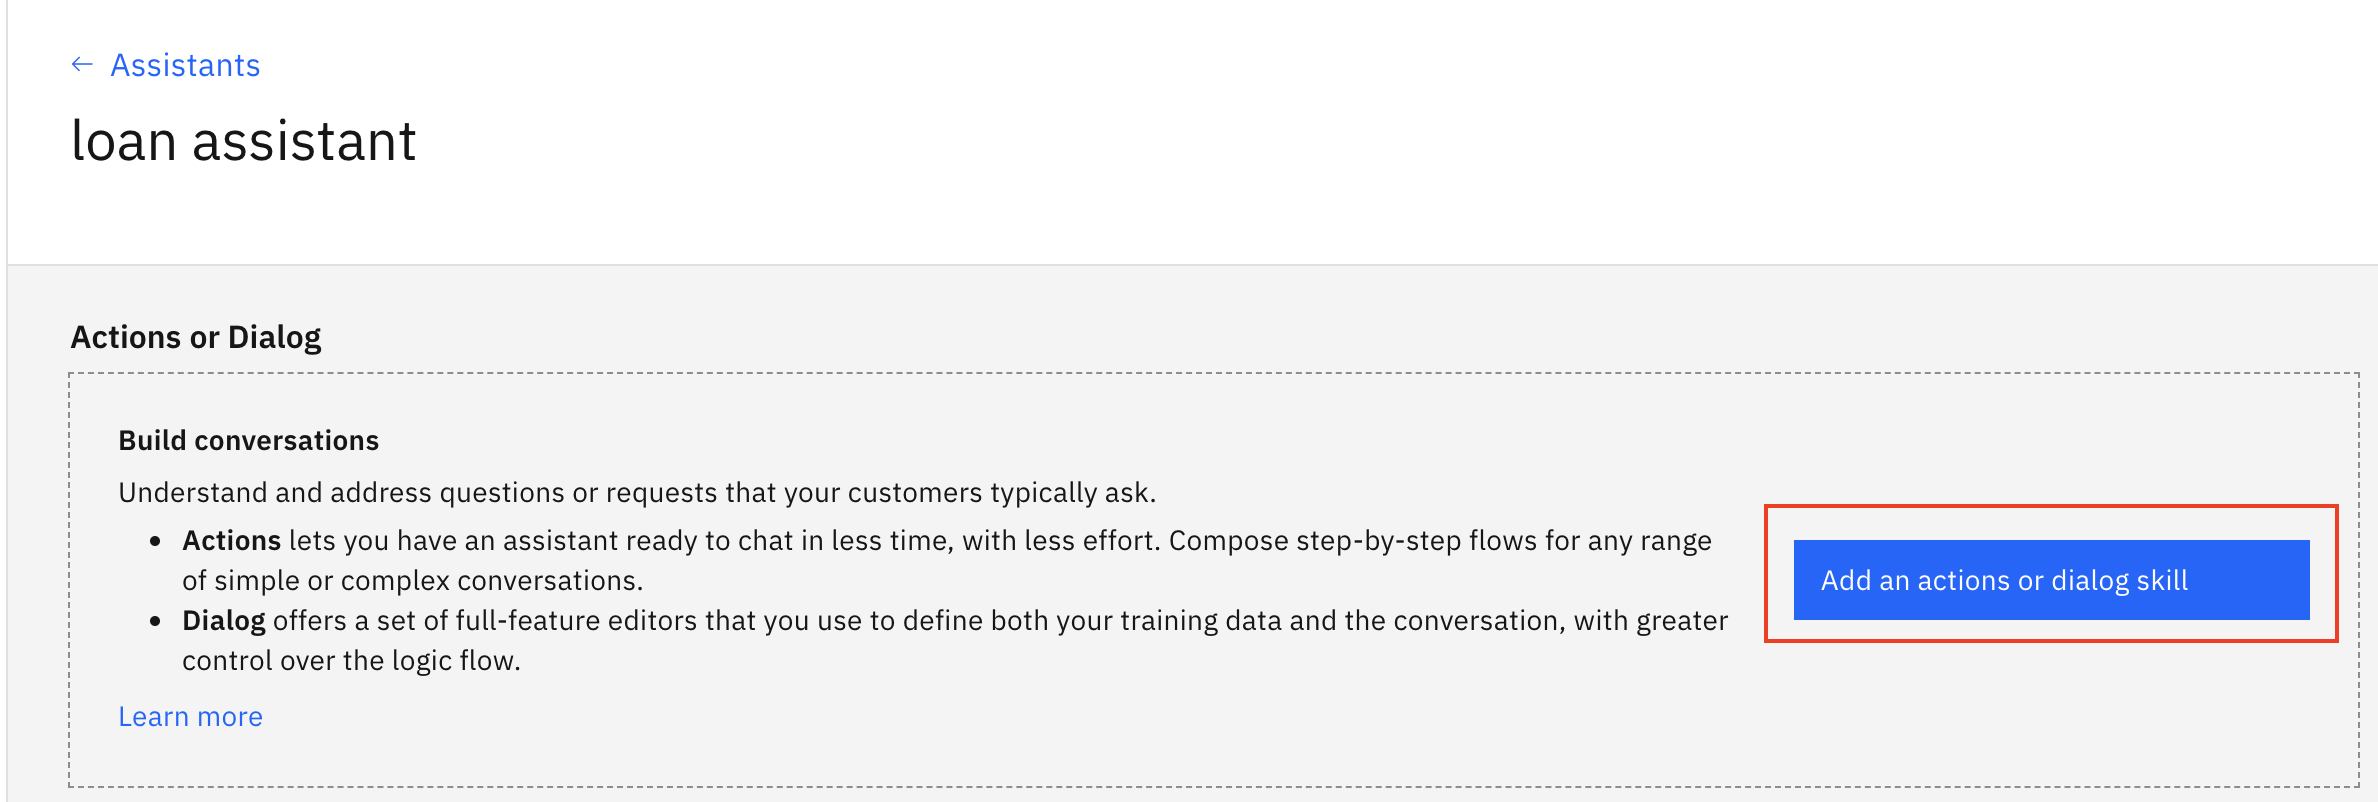
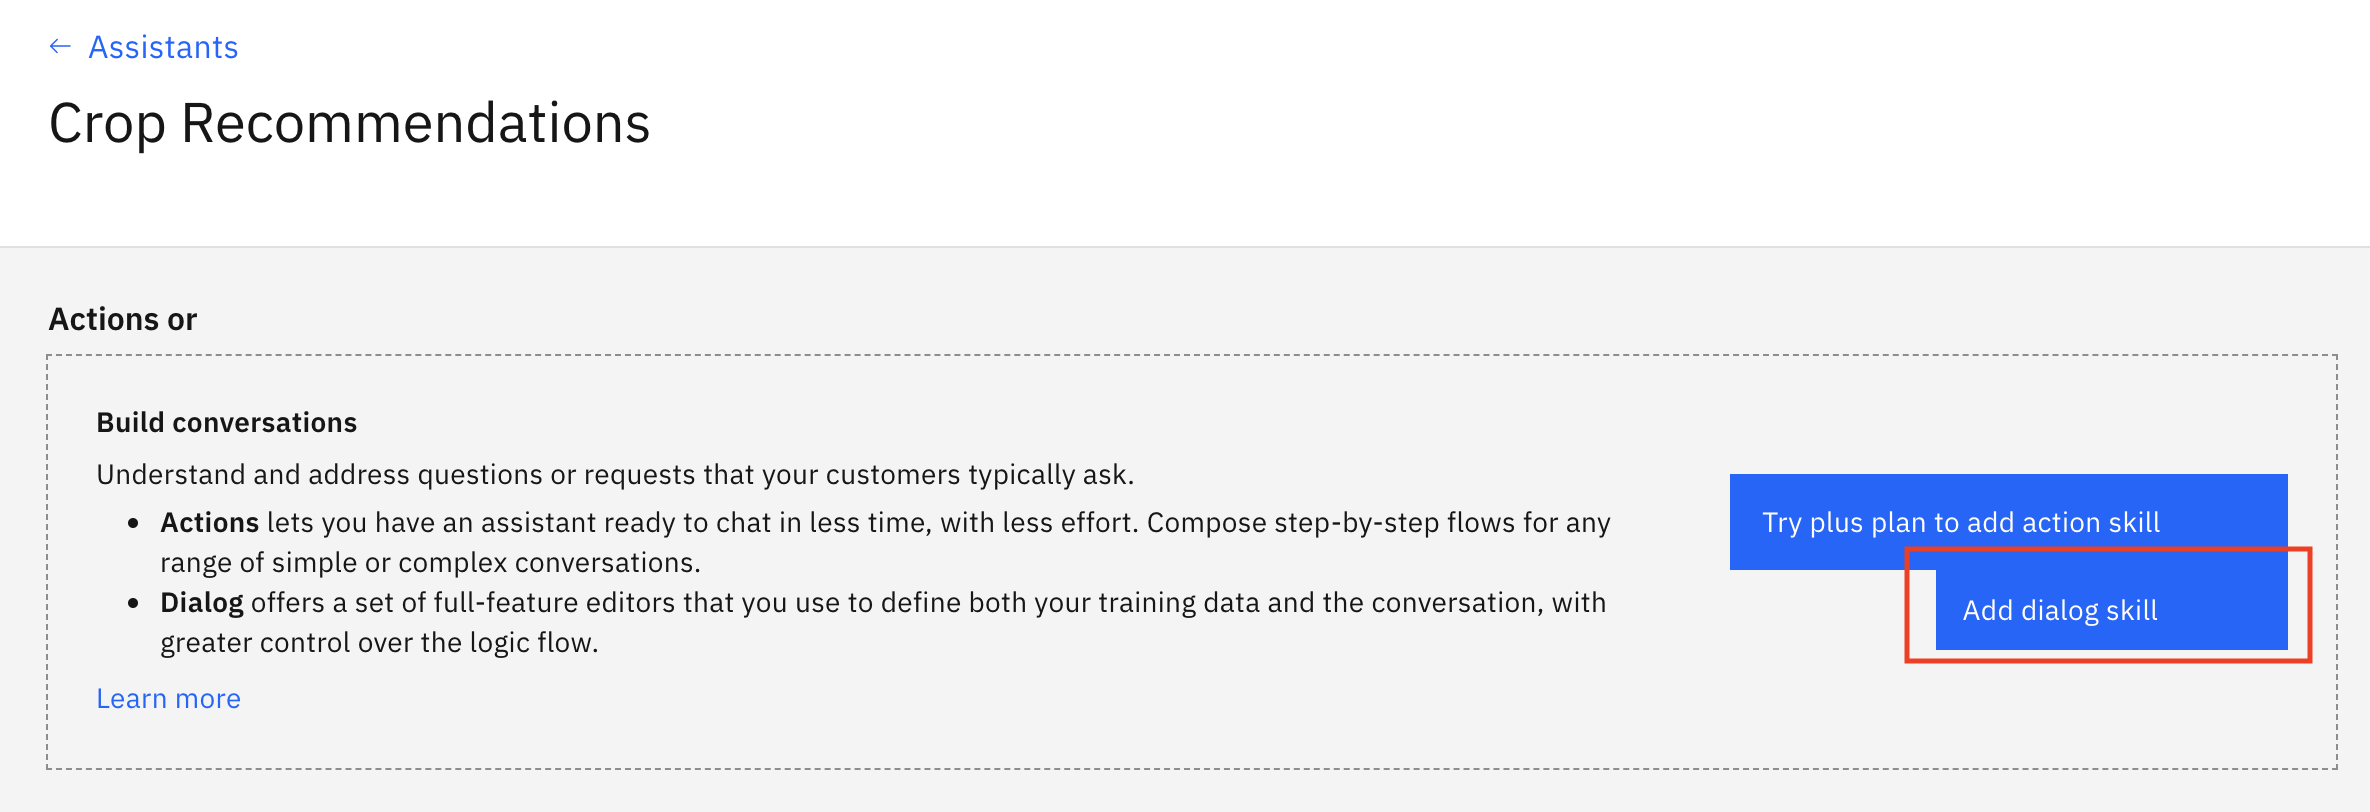
Changed assistant add skill image

diff --git a/didact/Readme-agro-smart-assistant.md b/didact/Readme-agro-smart-assistant.md
@@ -326,6 +326,7 @@
    <p style="font-size:24px">Pre-requisites</p>
     <div class="content-">
     <p>IBM Cloud Account -  Do not have an IBM Cloud Account?<a href="https://cloud.ibm.com/registration"> click here</a> to create one for free.</p>
+    <p>Login into your <a href="https://dataplatform.cloud.ibm.com/">CloudPak for Data</a> account, select region as "Dallas" and verify that the Dashboard is visible.</p>
     </div>
    </div>
     <div class="section">
@@ -336,33 +337,33 @@
    <div style="margin-top:0;"class="container right">
             <div class="content">
                 <p>To begin, open a pre-configured terminal.</p>
-                <a class="button is-dark is-medium" title="Open Terminal" href="didact://?commandId=terminal-for-nodejs-container:new">Open Terminal</a><br>
+                <a class="button is-dark is-medium" title="Open Terminal" href="didact://?commandId=terminal-for-sandbox-container:new">Open Terminal</a><br>
             </div>
         </div>
       <div class="container right">
          <div class="content">
             <p>Click `Get the code` to clone the code to your playground session as application's source code is needed.</p>
-            <a class="button is-dark is-medium" title="Get the Code" href="didact://?commandId=extension.sendToTerminal&text=nodejs%20terminal%7Cclone-repo%7Cnodejs%20terminal|git%20clone%20-b%20agro-chatbot%20https://github.com/IBM/Developer-Playground.git%20${CHE_PROJECTS_ROOT}/cp4d-smart-virtual-assistant">Get the Code</a>
+            <a class="button is-dark is-medium" title="Get the Code" href="didact://?commandId=extension.sendToTerminal&text=sandbox%20terminal%7Cclone-repo%7Csandbox%20terminal|git%20clone%20-b%20agro-chatbot%20https://github.com/IBM/Developer-Playground.git%20${CHE_PROJECTS_ROOT}/cp4d-smart-virtual-assistant">Get the Code</a>
          </div>
       </div>
       <div class="container right">
         <div class="content">
            <p>You've successfully cloned the code, so click `Build the application` to start the build process.
            </p>
-           <a class="button is-dark is-medium" title="Build the Application" href="didact://?commandId=extension.sendToTerminal&text=nodejs%20terminal%7Cbuild%7Cnodejs%20terminal|cd%20${CHE_PROJECTS_ROOT}/cp4d-smart-virtual-assistant%20%26%26%20npm%20install%26%26pip3.8%20install%20-r%20requirements.txt">Build the Application</a>
+           <a class="button is-dark is-medium" title="Build the Application" href="didact://?commandId=extension.sendToTerminal&text=sandbox%20terminal%7Cbuild%7Csandbox%20terminal|cd%20${CHE_PROJECTS_ROOT}/cp4d-smart-virtual-assistant%20%26%26%20npm%20install%26%26pip3.8%20install%20-r%20requirements.txt">Build the Application</a>
         </div>
      </div>
       <div class="container right">
         <div class="content">
           <p>Create and Configure IBM Services</p>
           <p>You need to be logged in to your IBM Cloud account in the Developer Playground to create and configure services.</p>
-          <a class="button is-dark is-medium" title="Login to IBM Cloud" href="didact://?commandId=extension.sendToTerminal&text=nodejs%20terminal%7Cibm-login%7Cnodejs%20terminal|cd%20${CHE_PROJECTS_ROOT}/cp4d-smart-virtual-assistant%20%26%26%20chmod%20%2Bx%20.%2Fscripts%2Flogin.sh%20%26%26%20.%2Fscripts%2Flogin.sh">Login to IBM Cloud</a>
+          <a class="button is-dark is-medium" title="Login to IBM Cloud" href="didact://?commandId=extension.sendToTerminal&text=sandbox%20terminal%7Cibm-login%7Csandbox%20terminal|cd%20${CHE_PROJECTS_ROOT}/cp4d-smart-virtual-assistant%20%26%26%20chmod%20%2Bx%20.%2Fscripts%2Flogin.sh%20%26%26%20.%2Fscripts%2Flogin.sh">Login to IBM Cloud</a>
         </div>
       </div>
       <div class="container right">
         <div class="content">
           <p>Create these services with just a click of button.</p>
-          <a class="button is-dark is-medium" title="Create IBM Watson Services" href="didact://?commandId=extension.sendToTerminal&text=nodejs%20terminal%7Ccreate-services%7Cnodejs%20terminal|cd%20${CHE_PROJECTS_ROOT}/cp4d-smart-virtual-assistant%20%26%26%20chmod%20%2Bx%20.%2Fscripts%2Fcreate-ibm-services.sh%20%26%26%20.%2Fscripts%2Fcreate-ibm-services.sh">Create IBM Watson Services</a>
+          <a class="button is-dark is-medium" title="Create IBM Watson Services" href="didact://?commandId=extension.sendToTerminal&text=sandbox%20terminal%7Ccreate-services%7Csandbox%20terminal|cd%20${CHE_PROJECTS_ROOT}/cp4d-smart-virtual-assistant%20%26%26%20chmod%20%2Bx%20.%2Fscripts%2Fcreate-ibm-services.sh%20%26%26%20.%2Fscripts%2Fcreate-ibm-services.sh">Create IBM Watson Services</a>
           <p style="margin-top:50px">Follow the below steps to configure the asset.</p>
         </div>
       </div>
@@ -372,11 +373,11 @@
          <summary>&nbsp;&nbsp;&nbsp;&nbsp;&nbsp;Create a New Deployment Space and Deploy the Model</summary></br></br>
          <div class="step">
           <p>Step 1 : Generate an API Key in the IBM account.</p>
-          <a class="button is-dark is-medium" title="Generate API key" href="didact://?commandId=extension.sendToTerminal&text=nodejs%20terminal%7Cgenerate-api-token%7Cnodejs%20terminal|cd%20${CHE_PROJECTS_ROOT}/cp4d-smart-virtual-assistant;ibmcloud%20iam%20api-key-create%20ApiKey-SVA%20-d%20'this is API key for Smart Virtual Assitant'%20--file%20${CHE_PROJECTS_ROOT}/cp4d-smart-virtual-assistant/key_file">Generate API key</a></br>
+          <a class="button is-dark is-medium" title="Generate API key" href="didact://?commandId=extension.sendToTerminal&text=sandbox%20terminal%7Cgenerate-api-token%7Csandbox%20terminal|cd%20${CHE_PROJECTS_ROOT}/cp4d-smart-virtual-assistant;ibmcloud%20iam%20api-key-create%20ApiKey-SVA%20-d%20'this is API key for Smart Virtual Assitant'%20--file%20${CHE_PROJECTS_ROOT}/cp4d-smart-virtual-assistant/key_file">Generate API key</a></br>
         </div>
           <div class="step">
             <p>Step 2 : Create a new deployment space with the pre-loaded model.</p>
-            <a class="button is-dark is-medium" href="didact://?commandId=extension.sendToTerminal&text=nodejs%20terminal%7Cstart%7Cnodejs%20terminal|cd%20${CHE_PROJECTS_ROOT}/cp4d-smart-virtual-assistant%20%26%26%20python3.8%20create_space.py">Create Deployment Space</a>
+            <a class="button is-dark is-medium" href="didact://?commandId=extension.sendToTerminal&text=sandbox%20terminal%7Cstart%7Csandbox%20terminal|cd%20${CHE_PROJECTS_ROOT}/cp4d-smart-virtual-assistant%20%26%26%20python3.8%20create_space.py">Create Deployment Space</a>
           <details style="margin-top:5px;">
          <summary>&nbsp;&nbsp;&nbsp;&nbsp;&nbsp;Incase your model import failed, do the following steps</summary></br></br>
           <div class="step">
@@ -414,11 +415,11 @@
            </div>
           <div class="step">
             <p>Step 3 : Deploy the model.</p>
-            <a class="button is-dark is-medium" href="didact://?commandId=extension.sendToTerminal&text=nodejs%20terminal%7Cstart%7Cnodejs%20terminal|cd%20${CHE_PROJECTS_ROOT}/cp4d-smart-virtual-assistant%20%26%26%20python3.8%20deploy_model.py">Deploy</a>
+            <a class="button is-dark is-medium" href="didact://?commandId=extension.sendToTerminal&text=sandbox%20terminal%7Cstart%7Csandbox%20terminal|cd%20${CHE_PROJECTS_ROOT}/cp4d-smart-virtual-assistant%20%26%26%20python3.8%20deploy_model.py">Deploy</a>
           </div>
           <div class="step">
             <p>Step 4 : Run the script to update the code file with Model URL.</p>
-            <a class="button is-dark is-medium" title="Update Model URL" href="didact://?commandId=extension.sendToTerminal&text=nodejs%20terminal%7Ccreate-services%7Cnodejs%20terminal|cd%20${CHE_PROJECTS_ROOT}/cp4d-smart-virtual-assistant%20%26%26%20chmod%20%2Bx%20.%2Fscripts%2Fadd_model_url.sh%20%26%26%20.%2Fscripts%2Fadd_model_url.sh">Update Model URL</a>
+            <a class="button is-dark is-medium" title="Update Model URL" href="didact://?commandId=extension.sendToTerminal&text=sandbox%20terminal%7Ccreate-services%7Csandbox%20terminal|cd%20${CHE_PROJECTS_ROOT}/cp4d-smart-virtual-assistant%20%26%26%20chmod%20%2Bx%20.%2Fscripts%2Fadd_model_url.sh%20%26%26%20.%2Fscripts%2Fadd_model_url.sh">Update Model URL</a>
             </div>
         </details>
         </div>
@@ -429,15 +430,15 @@
          <summary>&nbsp;&nbsp;&nbsp;&nbsp;&nbsp;Configure Cloud Functions</summary></br></br>
           <div class="step">
            <p>Step 1 : Create an Action in cloud functions with web action enabled.</p>
-           <a class="button is-dark is-medium" title="Create Action" href="didact://?commandId=extension.sendToTerminal&text=nodejs%20terminal%7Ccreate-action%7Cnodejs%20terminal|cd%20${CHE_PROJECTS_ROOT}/cp4d-smart-virtual-assistant%20%26%26%20chmod%20%2Bx%20.%2Fscripts%2Fcreate_action.sh%20%26%26%20.%2Fscripts%2Fcreate_action.sh">Create Action</a>
+           <a class="button is-dark is-medium" title="Create Action" href="didact://?commandId=extension.sendToTerminal&text=sandbox%20terminal%7Ccreate-action%7Csandbox%20terminal|cd%20${CHE_PROJECTS_ROOT}/cp4d-smart-virtual-assistant%20%26%26%20chmod%20%2Bx%20.%2Fscripts%2Fcreate_action.sh%20%26%26%20.%2Fscripts%2Fcreate_action.sh">Create Action</a>
            </div>
           <div class="step">
            <p>Step 2 : Run the script to add api_key parameter in the Action.</p>
-           <a class="button is-dark is-medium" title="Create Parameter" href="didact://?commandId=extension.sendToTerminal&text=nodejs%20terminal%7Ccreate-services%7Cnodejs%20terminal|cd%20${CHE_PROJECTS_ROOT}/cp4d-smart-virtual-assistant%20%26%26%20chmod%20%2Bx%20.%2Fscripts%2Fadd_parameter.sh%20%26%26%20.%2Fscripts%2Fadd_parameter.sh">Add Paramter</a>
+           <a class="button is-dark is-medium" title="Create Parameter" href="didact://?commandId=extension.sendToTerminal&text=sandbox%20terminal%7Ccreate-services%7Csandbox%20terminal|cd%20${CHE_PROJECTS_ROOT}/cp4d-smart-virtual-assistant%20%26%26%20chmod%20%2Bx%20.%2Fscripts%2Fadd_parameter.sh%20%26%26%20.%2Fscripts%2Fadd_parameter.sh">Add Paramter</a>
            </div>
           <div class="step">
            <p>Step 3 : Run the script to update Dialog skill file with the webhook URL that was just created.</p>
-           <a class="button is-dark is-medium" title="Update" href="didact://?commandId=extension.sendToTerminal&text=nodejs%20terminal%7Ccreate-services%7Cnodejs%20terminal|cd%20${CHE_PROJECTS_ROOT}/cp4d-smart-virtual-assistant%20%26%26%20chmod%20%2Bx%20.%2Fscripts%2Fupdate_dialog.sh%20%26%26%20.%2Fscripts%2Fupdate_dialog.sh">Update Dialog Skill</a>
+           <a class="button is-dark is-medium" title="Update" href="didact://?commandId=extension.sendToTerminal&text=sandbox%20terminal%7Ccreate-services%7Csandbox%20terminal|cd%20${CHE_PROJECTS_ROOT}/cp4d-smart-virtual-assistant%20%26%26%20chmod%20%2Bx%20.%2Fscripts%2Fupdate_dialog.sh%20%26%26%20.%2Fscripts%2Fupdate_dialog.sh">Update Dialog Skill</a>
           </div>
           </details>
         </div>
@@ -463,7 +464,7 @@
           <img src = "https://raw.githubusercontent.com/IBM/Developer-Playground/development/didact/images/section_4.4_assistant.png" width = "550" height= "550">
           </div>
           <div class="step">
-          <p>Step 4 : Once the Assistant is created, click on "add an action or dialog skill".</p>
+          <p>Step 4 : Once the Assistant is created, click on "Add dialog skill".</p>
           <img src = "https://raw.githubusercontent.com/IBM/Developer-Playground/development/didact/images/section_4.5_assistant.png" width = "750" height= "750">
           </div>
           <div class="step">
@@ -503,22 +504,22 @@
       <div class="container right">
          <div class="content">
             <p>You're all set to get started! </p>
-            <a class="button is-dark is-medium" title="Launch the Application" href="didact://?commandId=extension.sendToTerminal&text=nodejs%20terminal%7Cstart%7Cnodejs%20terminal|cd%20${CHE_PROJECTS_ROOT}/cp4d-smart-virtual-assistant%20%26%26%20npm%20start">Launch the Application</a>
+            <a class="button is-dark is-medium" title="Launch the Application" href="didact://?commandId=extension.sendToTerminal&text=sandbox%20terminal%7Cstart%7Csandbox%20terminal|cd%20${CHE_PROJECTS_ROOT}/cp4d-smart-virtual-assistant%20%26%26%20npm%20start">Launch the Application</a>
          </div>
       </div>
    </div>
    <div class="footer">
       <div class="content" style="padding:30px;padding-left:60px;padding-bottom:0px;">
          <p>If you'd like to make changes and explore the application, make sure to stop it first!</p>
-         <a class="button is-dark is-medium" title="Stop Application" href="didact://?commandId=vscode.didact.sendNamedTerminalCtrlC&text=nodejs%20terminal">Stop Application</a>
+         <a class="button is-dark is-medium" title="Stop Application" href="didact://?commandId=vscode.didact.sendNamedTerminalCtrlC&text=sandbox%20terminal">Stop Application</a>
          <p class="afterbutton">The stage is yours!</p>
          <a class="button is-dark is-medium" title="Explore the Code" href="didact://?commandId=extension.openFile&text=loan%7Copen-file%7C${CHE_PROJECTS_ROOT}/cp4d-smart-virtual-assistant/public/index.html">Explore the Code</a>
          <p class="afterbutton ">To view the changes you've made, re-launch the application</p>
-         <a class="button is-dark is-medium" title="Launch the Application" href="didact://?commandId=extension.sendToTerminal&text=nodejs%20launch%7Cbuild%7Cnodejs%20terminal|cd%20${CHE_PROJECTS_ROOT}/cp4d-smart-virtual-assistant%20%26%26%20npm%20start">Re-Launch the Application</a>
+         <a class="button is-dark is-medium" title="Launch the Application" href="didact://?commandId=extension.sendToTerminal&text=sandbox%20launch%7Cbuild%7Csandbox%20terminal|cd%20${CHE_PROJECTS_ROOT}/cp4d-smart-virtual-assistant%20%26%26%20npm%20start">Re-Launch the Application</a>
          <p style="margin-top:10px;"> Completed the tutorial? Click on
           <bold>Clean up</bold> to delete the IBM Cloud services that were created. Make sure to stop the application first!
         </p>
-        <a class="button is-dark is-medium" title="Delete services from IBM Cloud" href="didact://?commandId=extension.sendToTerminal&text=nodejs%20terminal%7Cdelete-services%7Cnodejs%20terminal|cd%20${CHE_PROJECTS_ROOT}/cp4d-smart-virtual-assistant%20%26%26%20chmod%20%2Bx%20.%2Fscripts%2Fdelete_services.sh%20%26%26%20.%2Fscripts%2Fdelete_services.sh">Clean up</a>
+        <a class="button is-dark is-medium" title="Delete services from IBM Cloud" href="didact://?commandId=extension.sendToTerminal&text=sandbox%20terminal%7Cdelete-services%7Csandbox%20terminal|cd%20${CHE_PROJECTS_ROOT}/cp4d-smart-virtual-assistant%20%26%26%20chmod%20%2Bx%20.%2Fscripts%2Fdelete_services.sh%20%26%26%20.%2Fscripts%2Fdelete_services.sh">Clean up</a>
         <p style="margin-top:10px;">You can also manage the services in
           <a href="https://cloud.ibm.com/resources">IBM Cloud Dashboard</a>.
         </p>
